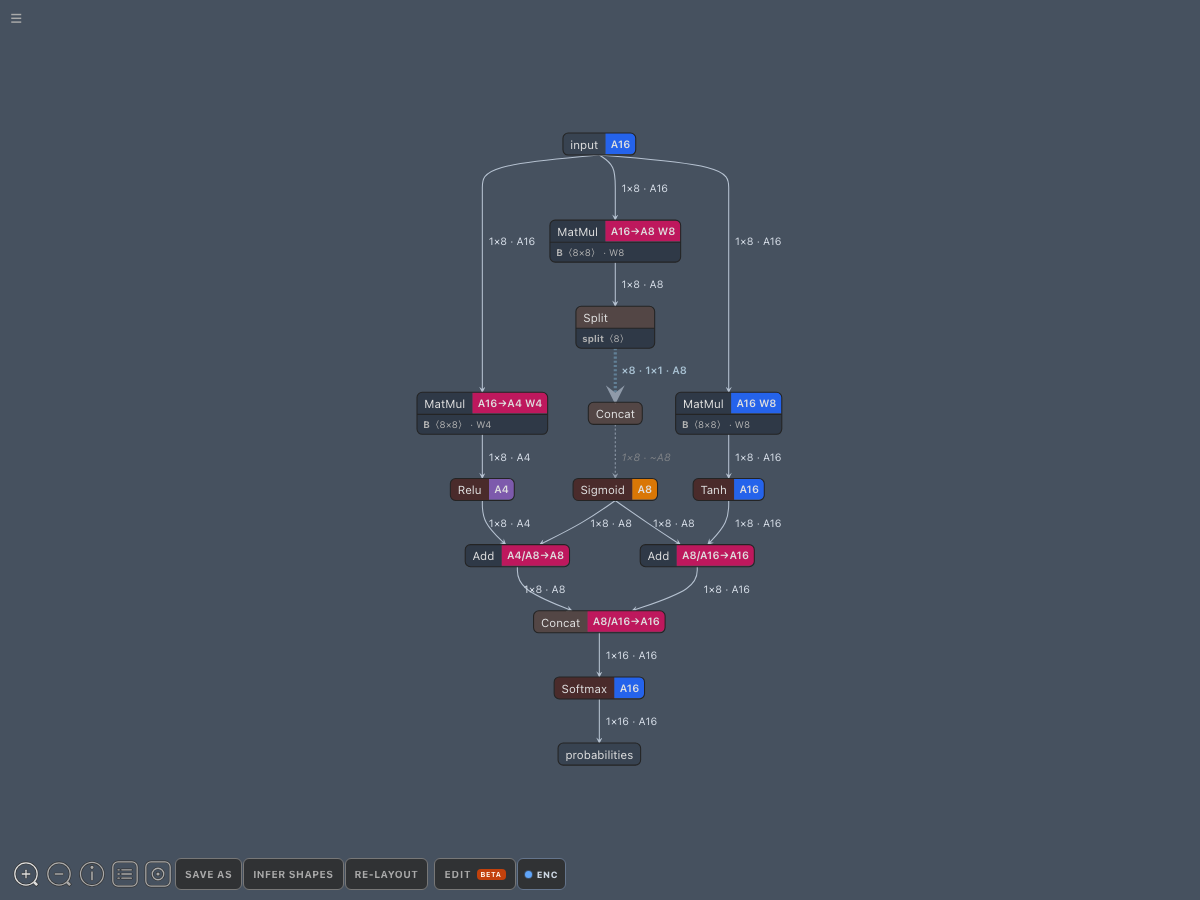
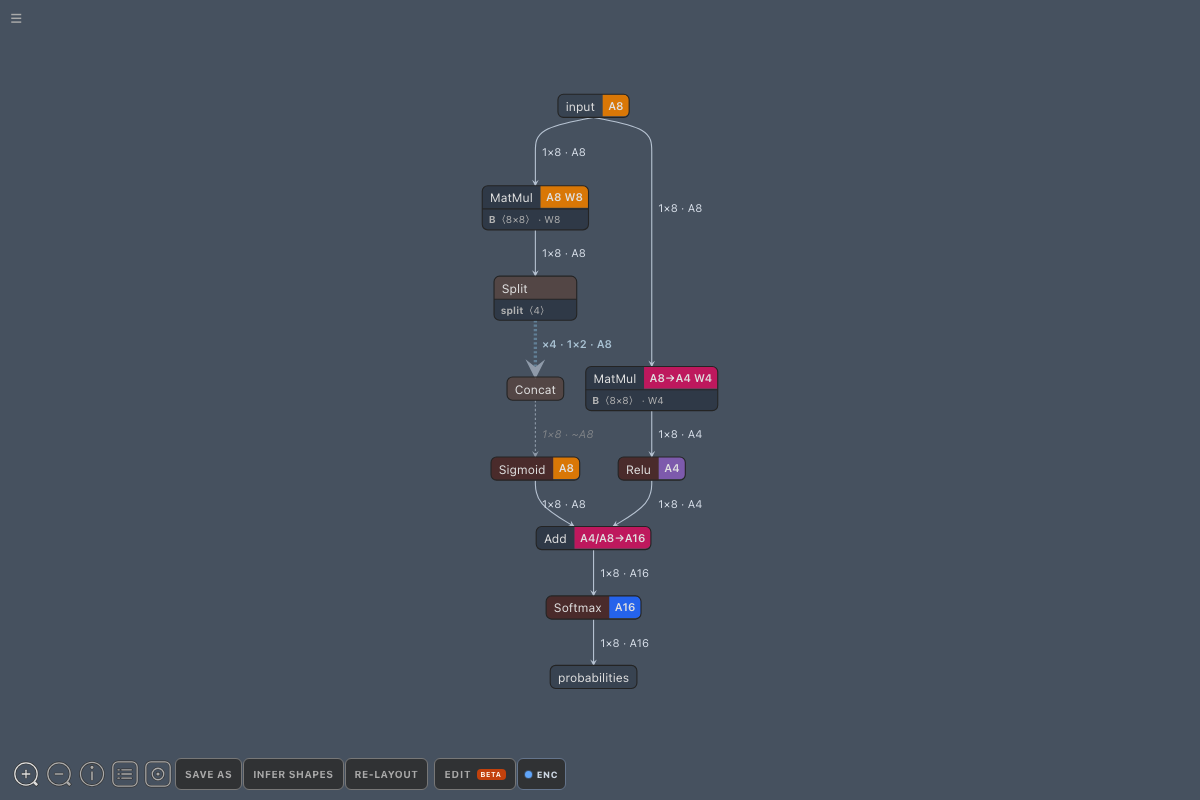
docs: streamline mixed-precision showcase and add edit demo

diff --git a/test/aimet.browser.spec.js b/test/aimet.browser.spec.js
@@ -312,7 +312,7 @@ playwright.test('HNNX showcase fixture covers quantization, bundled routing, Top
     await playwright.expect(page.locator('html')).toHaveClass(/onnx-graph-edit/);
 });
 
-playwright.test('mixed-precision screenshot fixture exposes A4, A8, A16 and an eight-way bundle', async ({ page }) => {
+playwright.test('mixed-precision screenshot fixture exposes A4, A8, A16 and a four-way bundle', async ({ page }) => {
     const self = url.fileURLToPath(import.meta.url);
     const root = path.resolve(path.dirname(self), '..');
     await page.goto('http://127.0.0.1:8765/dist/web/');
@@ -331,11 +331,10 @@ playwright.test('mixed-precision screenshot fixture exposes A4, A8, A16 and an e
     const badges = page.locator('.node-item-quantization');
     await playwright.expect(page.locator('.graph-node').filter({ hasText: 'Relu' }).locator('.node-item-quantization')).toContainText('A4');
     await playwright.expect(page.locator('.graph-node').filter({ hasText: 'Sigmoid' }).locator('.node-item-quantization')).toContainText('A8');
-    await playwright.expect(page.locator('.graph-node').filter({ hasText: 'Tanh' }).locator('.node-item-quantization')).toContainText('A16');
-    await playwright.expect(badges.filter({ hasText: /A4\/A8→A8/ })).toHaveCount(1);
-    await playwright.expect(badges.filter({ hasText: /A8\/A16→A16/ })).toHaveCount(2);
+    await playwright.expect(page.locator('.graph-node').filter({ hasText: 'Softmax' }).locator('.node-item-quantization')).toContainText('A16');
+    await playwright.expect(badges.filter({ hasText: /A4\/A8→A16/ })).toHaveCount(1);
     await playwright.expect(page.locator('.edge-path-bundle')).toHaveCount(1);
-    await playwright.expect(page.locator('.edge-label-bundle')).toContainText('×8');
+    await playwright.expect(page.locator('.edge-label-bundle')).toContainText('×4');
     await playwright.expect(page.locator('.edge-label-bundle')).toContainText('A8');
 });
 

diff --git a/scripts/create-mixed-precision-showcase.py b/scripts/create-mixed-precision-showcase.py
@@ -22,13 +22,10 @@ def build_model() -> onnx.ModelProto:
             rng.normal(0, 0.12, (8, 8)).astype(np.float32), "mid.weight"
         ),
         numpy_helper.from_array(
-            rng.normal(0, 0.08, (8, 8)).astype(np.float32), "high.weight"
-        ),
-        numpy_helper.from_array(
-            np.ones((8,), dtype=np.int64), "split.sizes"
+            np.full((4,), 2, dtype=np.int64), "split.sizes"
         ),
     ]
-    split_outputs = [f"mid_part_{index}" for index in range(8)]
+    split_outputs = [f"mid_part_{index}" for index in range(4)]
     nodes = [
         helper.make_node(
             "MatMul", ["input", "low.weight"], ["low_proj"], name="project_a4"
@@ -41,43 +38,24 @@ def build_model() -> onnx.ModelProto:
             "Split",
             ["mid_proj", "split.sizes"],
             split_outputs,
-            name="split_a8_eight_way",
+            name="split_a8_four_way",
             axis=1,
         ),
         helper.make_node(
             "Concat",
             split_outputs,
             ["mid_roundtrip"],
-            name="concat_a8_eight_way",
+            name="concat_a8_four_way",
             axis=1,
         ),
         helper.make_node(
             "Sigmoid", ["mid_roundtrip"], ["mid_gate"], name="activation_a8"
         ),
         helper.make_node(
-            "MatMul", ["input", "high.weight"], ["high_proj"], name="project_a16"
+            "Add", ["low_relu", "mid_gate"], ["mixed_a16"], name="mix_a4_a8_to_a16"
         ),
         helper.make_node(
-            "Tanh", ["high_proj"], ["high_gate"], name="activation_a16"
-        ),
-        helper.make_node(
-            "Add", ["low_relu", "mid_gate"], ["low_mid_mix"], name="mix_a4_a8"
-        ),
-        helper.make_node(
-            "Add",
-            ["mid_gate", "high_gate"],
-            ["mid_high_mix"],
-            name="mix_a8_a16",
-        ),
-        helper.make_node(
-            "Concat",
-            ["low_mid_mix", "mid_high_mix"],
-            ["mixed_concat"],
-            name="concat_mixed_precision",
-            axis=1,
-        ),
-        helper.make_node(
-            "Softmax", ["mixed_concat"], ["probabilities"], name="output_a16", axis=1
+            "Softmax", ["mixed_a16"], ["probabilities"], name="output_a16", axis=1
         ),
     ]
     graph = helper.make_graph(
@@ -86,13 +64,13 @@ def build_model() -> onnx.ModelProto:
         [helper.make_tensor_value_info("input", TensorProto.FLOAT, [1, 8])],
         [
             helper.make_tensor_value_info(
-                "probabilities", TensorProto.FLOAT, [1, 16]
+                "probabilities", TensorProto.FLOAT, [1, 8]
             )
         ],
         initializer=initializers,
         doc_string=(
             "Screenshot-ready HNNX graph with explicit A4, A8 and A16 paths, "
-            "mixed-precision transitions, W4/W8 parameters and an eight-way "
+            "one mixed-precision transition, W4/W8 parameters and a four-way "
             "Split-to-Concat edge bundle."
         ),
     )
@@ -132,22 +110,17 @@ def build_encodings() -> dict[str, object]:
     return {
         "version": "2.0.0",
         "activation_encodings": [
-            _activation("input", "int16", 0.0009765625),
+            _activation("input", "uint8", 0.03125),
             _activation("low_proj", "int4", 0.125),
             _activation("low_relu", "int4", 0.125),
             _activation("mid_proj", "uint8", 0.03125),
             _activation("mid_gate", "uint8", 0.00390625),
-            _activation("high_proj", "int16", 0.0009765625),
-            _activation("high_gate", "int16", 0.0009765625),
-            _activation("low_mid_mix", "uint8", 0.015625),
-            _activation("mid_high_mix", "int16", 0.0009765625),
-            _activation("mixed_concat", "int16", 0.0009765625),
+            _activation("mixed_a16", "int16", 0.0009765625),
             _activation("probabilities", "int16", 0.000030517578125),
         ],
         "param_encodings": [
             _parameter("low.weight", "int4", 0.015625),
             _parameter("mid.weight", "int8", 0.00390625),
-            _parameter("high.weight", "int8", 0.001953125),
         ],
     }
 

diff --git a/TEST_RESULTS.md b/TEST_RESULTS.md
@@ -18,7 +18,7 @@ The test scope is defined in `REGRESSION_TEST.md`.
 | Stage 3 adversarial UI | PASS | 100 / 100 unique high-speed history and renderer workflows; 98 in the full pass plus 2 setup-timeout cases rerun unchanged and passed |
 | AIMET precision policy | PASS | TopK `values` inherits activation bitwidth; `indices` remains unlabelled |
 | VS Code extension | PASS | 9 unit tests passed, including auto-load control, exact-URI reload and document-scoped detach; 3 configured-Python tests skipped |
-| AIMET browser/editor E2E | PASS | 16 / 16, including runtime Light/Dark overrides, post-connection first-click Re-layout, HNNX showcase models, A4/A8/A16 transitions, fixed Split-Concat bundles and fan-out alignment |
+| AIMET browser/editor E2E | PASS | 16 / 16, including runtime Light/Dark overrides, post-connection first-click Re-layout, HNNX showcase models, a compact A4/A8→A16 transition, fixed Split-Concat bundles and fan-out alignment |
 | Netron validation models | NOT RUN | Not rerun in this focused editor audit |
 | Native Electron E2E | PASS | ONNX load, desktop encodings attachment, visible ENC control, graph search and sidebar navigation |
 | VSIX packaging | PASS | 184 files; web app and Python backend present |

diff --git a/README.md b/README.md
@@ -34,14 +34,21 @@ See [MANUAL_TEST.md](MANUAL_TEST.md) for the hands-on test workflow.
 
 ![HNNX mixed-precision showcase](publish/hnnx-mixed-precision.png)
 
+<details>
+<summary>Connection editing demo</summary>
+
+![HNNX connection editing demo](publish/hnnx-edit-demo.gif)
+
+</details>
+
 Open these two files together to render a compact graph designed for project
 screenshots:
 
 - `examples/hnnx-mixed-precision.onnx`
 - `examples/hnnx-mixed-precision.encodings`
 
-The graph contains dedicated A4, A8 and A16 branches, W4/W8 parameters,
-`A4/A8→A8` and `A8/A16→A16` mixed-precision transitions, plus an eight-way
+The graph contains compact A4 and A8 branches, W4/W8 parameters, one
+`A4/A8→A16` mixed-precision merge and A16 output, plus a four-way
 Split-to-Concat bundle. Regenerate it with:
 
 ```bash
